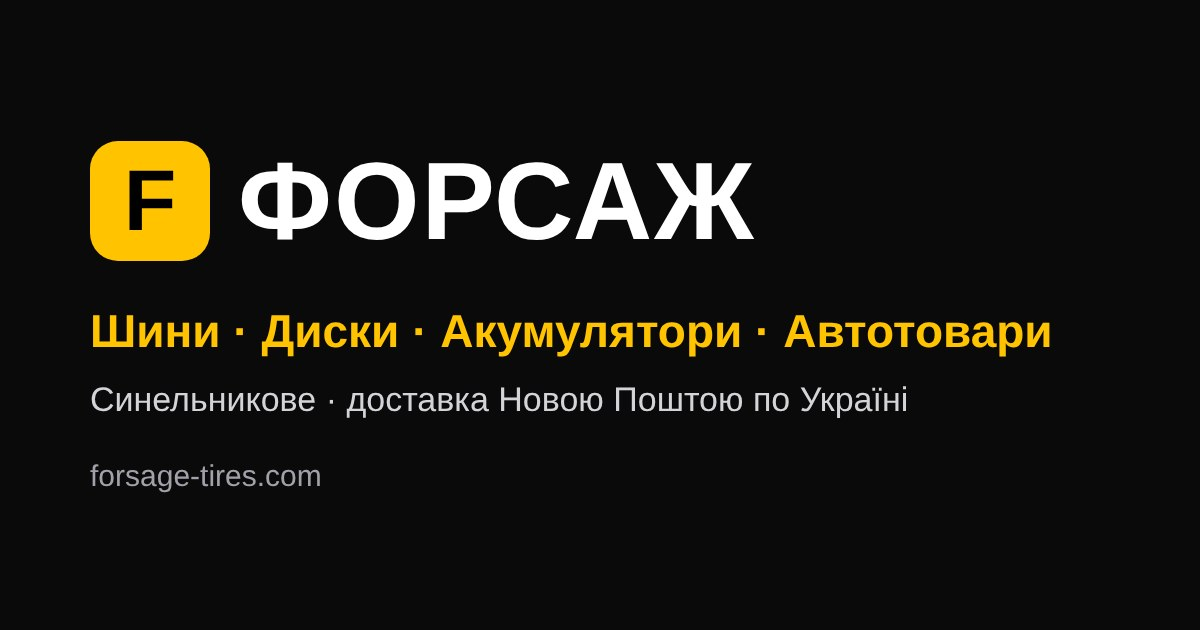
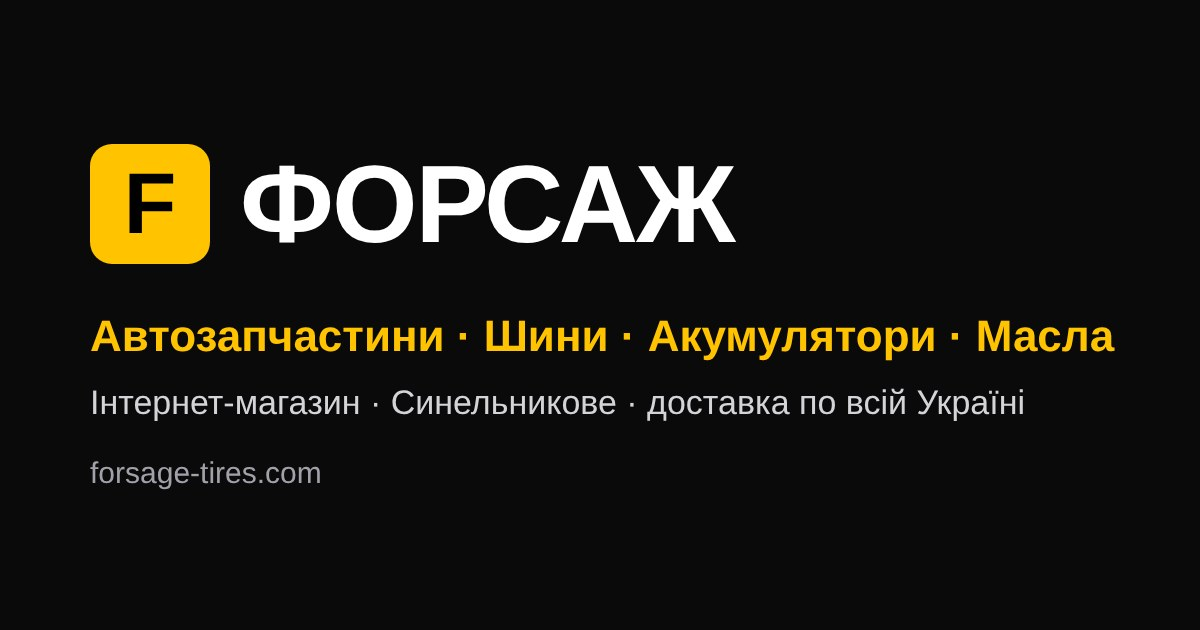
Home title, description and link preview: the shop first (auto parts, tyres, batteries), new preview picture (#137)
Claude-Session: https://claude.ai/code/session_014pssW8CWXu9Ms32ggVesZB

diff --git a/index.html b/index.html
@@ -13,26 +13,26 @@
     <meta name="viewport" content="width=device-width, initial-scale=1.0, maximum-scale=1.0, user-scalable=no, viewport-fit=cover" />
     
     <!-- SEO Optimization -->
-    <title>Форсаж — інтернет-магазин шин, дисків та автотоварів | Синельникове, Дніпро</title>
-    <meta name="description" content="🛞 Інтернет-магазин Форсаж: шини, диски, акумулятори, масла та автотовари в наявності. Купити у Синельниковому та Дніпрі, доставка Новою Поштою по всій Україні. Замовлення онлайн 24/7." />
+    <title>Форсаж — автозапчастини, шини та акумулятори | інтернет-магазин, Синельникове</title>
+    <meta name="description" content="Інтернет-магазин Форсаж: автозапчастини, шини, диски, акумулятори, масла та автотовари — понад 20 000 товарів. Самовивіз у Синельниковому, доставка Новою Поштою по всій Україні." />
     <meta name="keywords" content="купити шини дніпро, шини синельникове, інтернет-магазин шин, купити диски, купити акумулятор, моторне масло, автотовари, купити гуму днепр, форсаж" />
     <meta name="author" content="Форсаж" />
     <meta name="robots" content="index, follow" />
     
     <!-- Open Graph / Facebook -->
     <meta property="og:type" content="website" />
-    <meta property="og:title" content="Форсаж — інтернет-магазин шин, дисків та автотоварів" />
-    <meta property="og:description" content="Шини, диски, акумулятори та автотовари в наявності. Доставка по Україні, самовивіз у Синельниковому." />
-    <meta property="og:image" content="https://www.forsage-tires.com/og.jpg" />
+    <meta property="og:title" content="Форсаж — інтернет-магазин автозапчастин, шин та акумуляторів" />
+    <meta property="og:description" content="Автозапчастини, шини, акумулятори, масла та автотовари. Самовивіз у Синельниковому, доставка Новою Поштою по Україні." />
+    <meta property="og:image" content="https://www.forsage-tires.com/og.jpg?v=2" />
     <meta property="og:url" content="https://www.forsage-tires.com/" />
     <meta property="og:site_name" content="Форсаж" />
     <meta property="og:locale" content="uk_UA" />
 
     <!-- Twitter -->
     <meta name="twitter:card" content="summary_large_image" />
-    <meta name="twitter:title" content="Форсаж — інтернет-магазин автотоварів" />
-    <meta name="twitter:description" content="Шини, диски, акумулятори та автотовари. Доставка по всій Україні." />
-    <meta name="twitter:image" content="https://www.forsage-tires.com/og.jpg" />
+    <meta name="twitter:title" content="Форсаж — інтернет-магазин автозапчастин, шин та акумуляторів" />
+    <meta name="twitter:description" content="Автозапчастини, шини, акумулятори, масла та автотовари. Самовивіз у Синельниковому, доставка Новою Поштою по Україні." />
+    <meta name="twitter:image" content="https://www.forsage-tires.com/og.jpg?v=2" />
 
     <link rel="preconnect" href="https://fonts.googleapis.com" />
     <link rel="preconnect" href="https://fonts.gstatic.com" crossorigin />
@@ -52,10 +52,10 @@
       "@type": "AutoPartsStore",
       "name": "Форсаж",
       "image": [
-        "https://www.forsage-tires.com/og.jpg"
+        "https://www.forsage-tires.com/og.jpg?v=2"
       ],
       "logo": "https://www.forsage-tires.com/favicon.svg",
-      "description": "Інтернет-магазин шин, дисків, акумуляторів та автотоварів у Синельниковому. Доставка по Україні.",
+      "description": "Інтернет-магазин автозапчастин, шин, дисків, акумуляторів та автотоварів у Синельниковому. Доставка по Україні.",
       "telephone": "+380991674424",
       "url": "https://www.forsage-tires.com/",
       "priceRange": "UAH",

diff --git a/api/page.js b/api/page.js
@@ -251,8 +251,8 @@ async function build(pathname, query) {
   ]);
   return {
     url: `${SITE_URL}/`, keepHead: true,
-    content: `<h1>${SHOP_NAME} — інтернет-магазин шин, дисків, акумуляторів та автотоварів</h1>`
-      + `<p>Шини для легкових авто, позашляховиків, бусів, вантажівок і сільгосптехніки, диски, акумулятори, масла та автотовари. ${DELIVERY} Оплата при отриманні або передоплата.</p>`
+    content: `<h1>${SHOP_NAME} — інтернет-магазин автозапчастин, шин, акумуляторів та автотоварів</h1>`
+      + `<p>Автозапчастини для іномарок і вітчизняних авто: фільтри, гальма, підвіска, запалювання, ремені. Шини для легкових авто, позашляховиків, бусів, вантажівок і сільгосптехніки, диски, акумулятори, масла та автотовари. ${DELIVERY} Оплата при отриманні або передоплата.</p>`
       + navBlock(cats)
       + (hot.length ? `<h2>Хіти та акції</h2>${productList(hot)}` : '')
       + (articles.length ? `<h2>Корисно знати</h2><ul>${articles.map((a) => `<li>${link(articleSlugPath(a), String(a.title).trim())}</li>`).join('')}</ul>` : ''),
